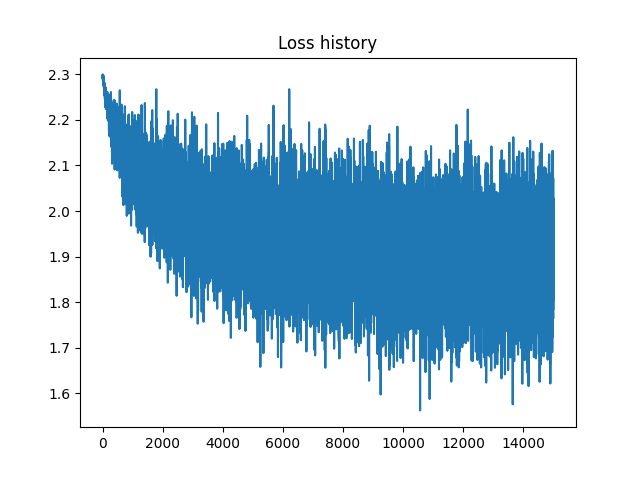
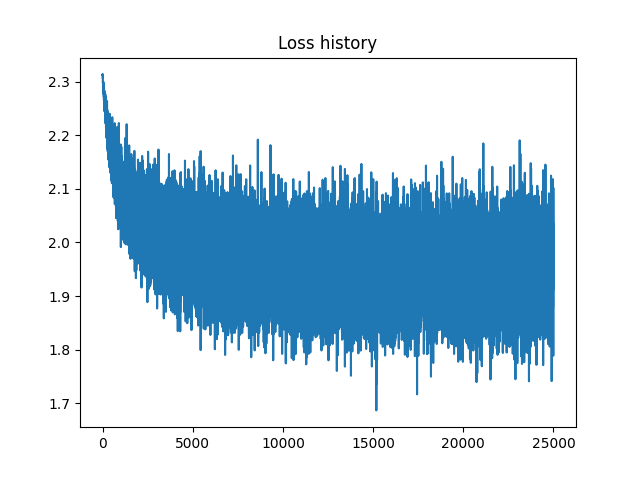
trained model sem3

diff --git a/src/seminar3.py b/src/seminar3.py
@@ -1,6 +1,9 @@
 """Seminar 3. Multilayer neural net"""
-import numpy as np
+import datetime
+import os.path
 
+import numpy as np
+from src.test_utils import get_preprocessed_data, visualize_weights, visualize_loss
 
 class Param:
     """
@@ -113,7 +116,7 @@ class DenseLayer:
 class TwoLayerNet:
     """ Neural network with two fully connected layers """
 
-    def __init__(self, n_input, n_output, hidden_layer_size, reg=0):
+    def __init__(self, n_input, n_output, hidden_layer_size, reg=0.0):
         """
         Initializes the neural network
         Arguments:
@@ -167,7 +170,6 @@ class TwoLayerNet:
 
 
 
-
     def fit(self, X, y, learning_rate=1e-3, num_iters=10000,
             batch_size=4, verbose=True):
         """
@@ -209,8 +211,59 @@ class TwoLayerNet:
         return loss_history
 
 
+    def evaluate(self, X, y):
+        """
+        Use the trained weights of this linear classifier to predict labels for
+        data points and evaluate accuracy.
+        Inputs:
+        - X: A numpy array of shape (N, D) containing training data; there are N
+          training samples each of dimension D.
+        Returns:
+        - y_predicted: Predicted labels for the data in X. y_predicted is a 1-dimensional
+          array of length N, and each element is an integer giving the predicted
+          class.
+        """
+        z = self.forward(X, y)
+        y_predicted = np.argmax(z, axis=1)
+        accuracy = np.mean(y_predicted == y)
+        return accuracy
+
 if __name__ == '__main__':
-    """1 point"""
-    # Train your TwoLayer Net!
-    # Save report to output/seminar3
-    model = TwoLayerNet()
+    (x_train, y_train), (x_test, y_test) = get_preprocessed_data()
+    hidden_layer_size = 64
+    reg = 0.1
+    learning_rate = 1e-3
+    n_input = x_train.shape[1]
+    n_output = 10
+    num_iters = 5000
+    batch_size = 128
+    model = TwoLayerNet(n_input, n_output, hidden_layer_size, reg)
+    t0 = datetime.datetime.now()
+    loss_history = model.fit(x_train, y_train, learning_rate, num_iters, batch_size)
+    t1 = datetime.datetime.now()
+    dt = t1 - t0
+
+    report = f"""# Training Softmax classifier
+    datetime: {t1.isoformat(' ', 'seconds')}
+    Well done in: {dt.seconds} seconds
+    learning_rate = {learning_rate}
+    reg = {reg}
+    num_iters = {num_iters}
+    batch_size = {batch_size}
+
+    Final loss: {loss_history[-1]}
+    Train accuracy: {model.evaluate(x_train, y_train)}   
+    Test accuracy: {model.evaluate(x_test, y_test)}  
+    <img src="weights.png">
+    <br>
+    <img src="loss.png">
+    """
+    print(report)
+
+
+
+    out_dir = '../output/seminar3'
+    report_path = os.path.join(out_dir, 'report.md')
+    with open(report_path, 'w') as f:
+        f.write(report)
+    visualize_loss(loss_history, out_dir)

diff --git a/src/seminar2.py b/src/seminar2.py
@@ -47,7 +47,7 @@ def softmax_loss_and_grad(W: np.array, X: np.array, y: np.array, reg: float) -> 
     dz = S.copy()
     dz[range(N), y] -= 1
     # 3. Compute data gradient dL/dW
-    dL_dW = X.T @ dz
+    dL_dW = X.T @ dz # (D, N) x (N, C) => (D, C)
     dL_dW /= N
     # 4. Compute regularization gradient
     dL_dW += reg * (2*W)
@@ -146,9 +146,9 @@ def train():
 
     # ***** START OF YOUR CODE *****
     learning_rate = 0.0001
-    reg = 0.1
-    num_iters = 15000
-    batch_size = 64
+    reg = 0.3
+    num_iters = 25000
+    batch_size = 128
     # ******* END OF YOUR CODE ************
 
     (x_train, y_train), (x_test, y_test) = get_preprocessed_data()
@@ -187,4 +187,3 @@ Test accuracy: {cls.evaluate(x_test, y_test)}
 
 if __name__ == '__main__':
     train()
-

diff --git a/output/seminar2/report.md b/output/seminar2/report.md
@@ -1,14 +1,14 @@
 # Training Softmax classifier  
-datetime: 2023-09-30 11:58:33  
-Well done in: 70 seconds  
+datetime: 2023-09-30 12:19:53  
+Well done in: 195 seconds  
 learning_rate = 0.0001  
-reg = 0.1  
-num_iters = 15000  
-batch_size = 64  
+reg = 0.3  
+num_iters = 25000  
+batch_size = 128  
 
-Final loss: 1.7653147819908286   
-Train accuracy: 0.37292   
-Test accuracy: 0.3713  
+Final loss: 2.007556422923887   
+Train accuracy: 0.37288   
+Test accuracy: 0.3691  
     
 <img src="weights.png">  
 <br>

diff --git a/output/seminar3/report.md b/output/seminar3/report.md
@@ -1,0 +1,15 @@
+# Training Softmax classifier
+    datetime: 2023-10-14 00:21:41
+    Well done in: 113 seconds
+    learning_rate = 0.001
+    reg = 0.1
+    num_iters = 5000
+    batch_size = 128
+
+    Final loss: 0.24444326439872807
+    Train accuracy: 0.16316   
+    Test accuracy: 0.162  
+    <img src="weights.png">
+    <br>
+    <img src="loss.png">
+    
